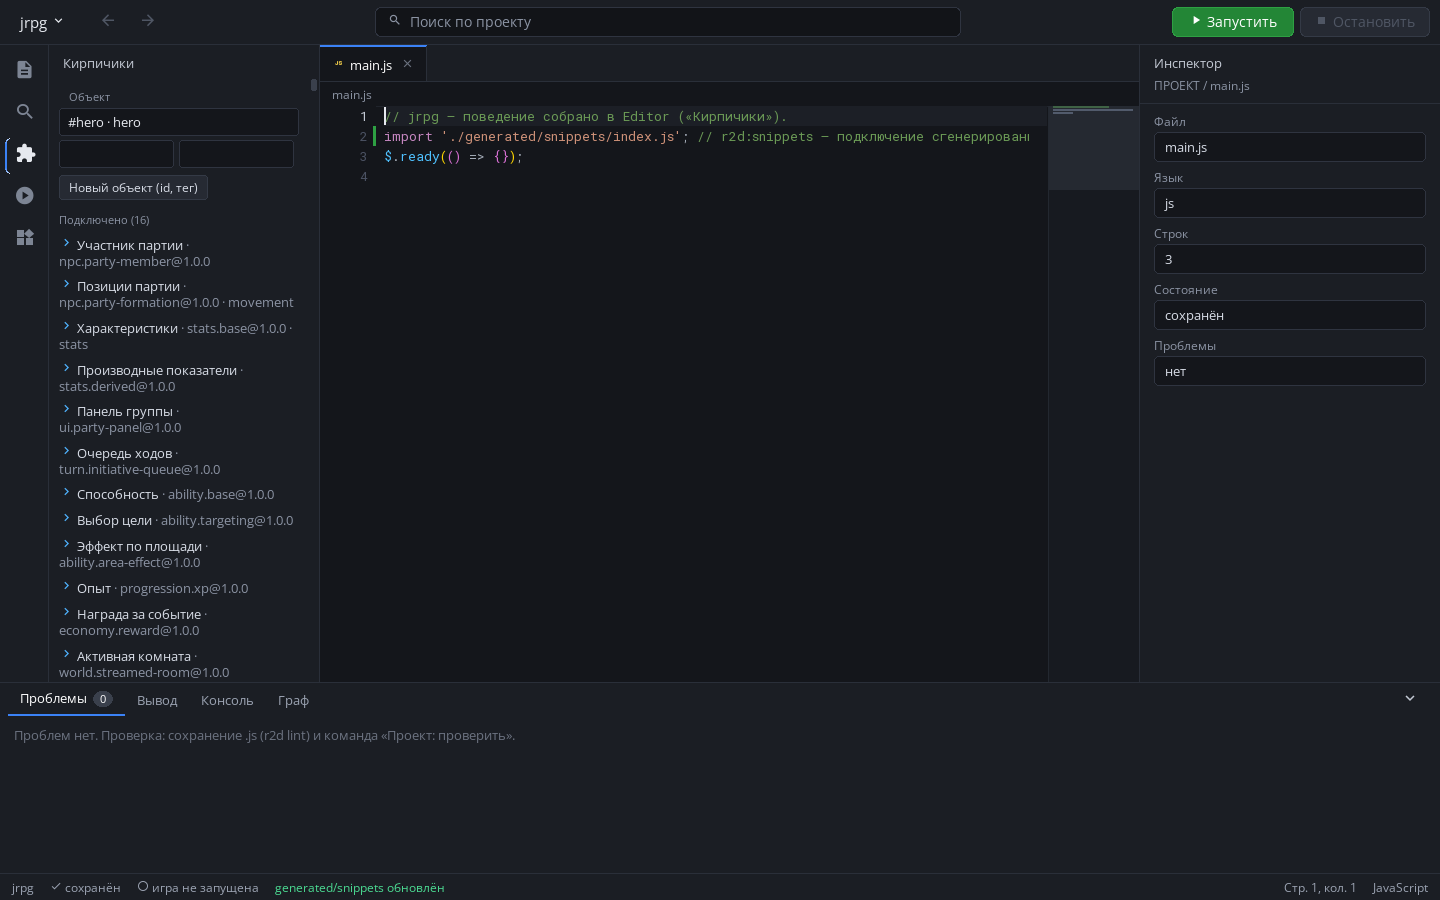
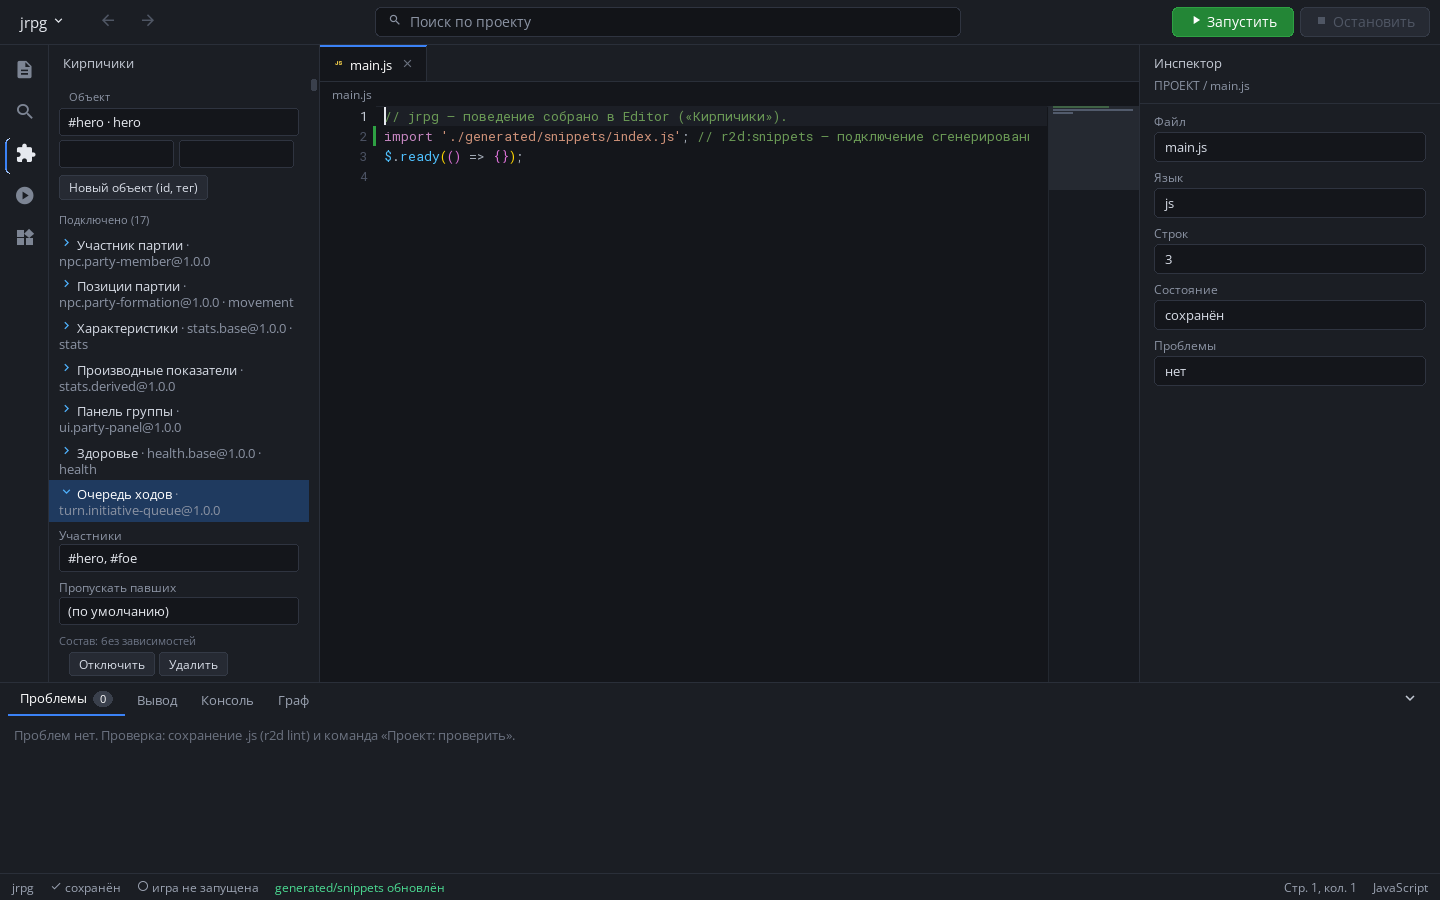
Сниппеты: рабочие VN callbacks и здоровье JRPG, приёмка семи жанров

Changed region(s): [[0.0312, 0.4978, 0.2188, 0.7467]]

diff --git a/snippets/dialogue.action/src/behavior.js b/snippets/dialogue.action/src/behavior.js
@@ -1,8 +1,8 @@
 // Действия: choice по тексту и line по id реплики → $.emit(событие).
 export default function dialogueAction(node, config, $) {
     const map = Object.fromEntries(config.actions.map((s) => s.split('=')).filter((p) => p.length === 2).map(([k, v]) => [k.trim(), v.trim()]));
-    const onChoice = (e) => { if ($.dialog.definition() !== config.dialog) return; if (config.setFlag) $.story.set(config.setFlag, e.data.text); if (map[e.data.text]) $.emit(map[e.data.text], { dialog: config.dialog }); };
-    const onLine = (e) => { if (e.data.definition === config.dialog && map[e.data.id]) $.emit(map[e.data.id], { dialog: config.dialog }); };
+    const onChoice = (e) => { if ($.dialog.definition() !== config.dialog) return; if (config.setFlag) $.story.set(config.setFlag, e.text); if (map[e.text]) $.emit(map[e.text], { dialog: config.dialog }); };
+    const onLine = (e) => { if (e.definition === config.dialog && map[e.id]) $.emit(map[e.id], { dialog: config.dialog }); };
     $.dialog.on('choice', onChoice);
     $.dialog.on('line', onLine);
     return () => { $.dialog.off('choice', onChoice); $.dialog.off('line', onLine); };

diff --git a/snippets/dialogue.portrait/src/behavior.js b/snippets/dialogue.portrait/src/behavior.js
@@ -3,8 +3,8 @@ export default function dialoguePortrait(node, config, $) {
     const map = Object.fromEntries(config.portraits.map((s) => s.split('=')).filter((p) => p.length === 2).map(([k, v]) => [k.trim(), v.trim()]));
     const pic = $('<portrait>', { ui: true }).at(config.position[0], config.position[1]).size(config.size[0], config.size[1]).hide().appendTo($.world);
     const onLine = (e) => {
-        const key = (e.data.speaker || '') + ':' + ((e.data.text || '').match(/^\[(\w+)\]/) || [])[1];
-        const src = map[key] || map[(e.data.speaker || '') + ':'] || map[e.data.speaker] || e.data.portrait;
+        const key = (e.speaker || '') + ':' + ((e.text || '').match(/^\[(\w+)\]/) || [])[1];
+        const src = map[key] || map[(e.speaker || '') + ':'] || map[e.speaker] || e.portrait;
         if (src) pic.sprite(src).show(); else pic.hide();
     };
     const onEnd = () => pic.hide();

diff --git a/snippets/dialogue.choice/src/behavior.js b/snippets/dialogue.choice/src/behavior.js
@@ -4,7 +4,7 @@ export default function dialogueChoice(node, config, $) {
         .map(([text, to, flag]) => Object.assign({ text, to: to || null, action: text }, flag ? { if: flag } : {}));
     const send = () => $.emit('dialogue:choices', { dialog: config.dialog, line: config.line, options });
     const onDefined = (e) => { if (e.data && e.data.id === config.dialog) send(); };
-    const onChoice = (e) => { if (config.record && $.dialog.definition() === config.dialog && options.some((o) => o.text === e.data.text)) $.story.set(config.record, e.data.text); };
+    const onChoice = (e) => { if (config.record && $.dialog.definition() === config.dialog && options.some((o) => o.text === e.text)) $.story.set(config.record, e.text); };
     $.on('dialogue:defined', onDefined);
     $.dialog.on('choice', onChoice);
     send();

diff --git a/snippets/ui.dialogue-box/src/behavior.js b/snippets/ui.dialogue-box/src/behavior.js
@@ -12,7 +12,7 @@ const esc = (t) => String(t).replace(/&/g, '&amp;').replace(/</g, '&lt;').replac
 export default function dialogueBox(node, config, $) {
     const doc = hud($, 'ui-dialogue', '<div class="panel" style="left: 5%; bottom: 20px; width: 90%; height: ' + config.height + 'px;"><div id="who" style="color: #ffd040;"></div><div id="text"></div></div>');
     doc.hide();
-    const onLine = (e) => { doc.text('who', esc(e.data.speaker || '')); doc.show(); };
+    const onLine = (e) => { doc.text('who', esc(e.speaker || '')); doc.show(); };
     const onEnd = () => doc.hide();
     $.dialog.on('line', onLine);
     $.dialog.on('end', onEnd);

diff --git a/snippets/accessibility.subtitle/src/behavior.js b/snippets/accessibility.subtitle/src/behavior.js
@@ -4,7 +4,7 @@ export default function subtitles(node, config, $) {
     doc.show();
     let left = 0;
     const show = (text, ms) => { doc.text('s', String(text).replace(/</g, '&lt;')); left = ms; };
-    const onLine = (e) => show((config.speaker && e.data.speaker ? e.data.speaker + ': ' : '') + (e.data.fullText || e.data.text || ''), 4000);
+    const onLine = (e) => show((config.speaker && e.speaker ? e.speaker + ': ' : '') + (e.fullText || e.text || ''), 4000);
     const onSub = (e) => show(e.data && e.data.text || '', (e.data && e.data.ms) || 2500);
     $.dialog.on('line', onLine);
     $.on('subtitle', onSub);

diff --git a/snippets/story.choice-history/src/behavior.js b/snippets/story.choice-history/src/behavior.js
@@ -2,7 +2,7 @@
 export default function choiceHistory(node, config, $) {
     const log = ($.save.get(config.key) || []).slice();
     const on = (e) => {
-        log.push({ dialog: $.dialog.definition(), node: $.dialog.node(), text: e.data.text });
+        log.push({ dialog: $.dialog.definition(), node: $.dialog.node(), text: e.text });
         while (log.length > config.keep) log.shift();
         $.save.set(config.key, log);
     };

diff --git a/tests/agent/snippets_genre_projects_test.py b/tests/agent/snippets_genre_projects_test.py
@@ -54,6 +54,21 @@ def project_json(root):
     return json.loads((root / 'project.json').read_text())
 
 
+def configure(a, root, package, values):
+    inst = next(i for i in project_json(root)['editor']['snippets']['instances'] if i['package'] == package)
+    a.eval("$.ui.doc('ui/editor.rml').setValue('sn-owner', %s);1" % json.dumps(inst['owner']))
+    run(a, E + ".snippets.changed('sn-owner')")
+    if a.eval(E + '.snippets.state.open') != inst['id']:
+        run(a, E + '.snippets.click(%s)' % json.dumps('open:' + inst['id']))
+    for key, value in values.items():
+        text = json.dumps(value, ensure_ascii=False) if isinstance(value, list) else str(value)
+        settle(a, E + '.snippets.state.busy===false')
+        a.eval("$.ui.doc('ui/editor.rml').setValue(%s,%s);1" % (json.dumps('sn-f-' + key), json.dumps(text, ensure_ascii=False)))
+        run(a, E + '.snippets.changed(%s)' % json.dumps('sn-f-' + key))
+        settle(a, E + '.snippets.state.busy===false')
+    check(next(i for i in project_json(root)['editor']['snippets']['instances'] if i['id'] == inst['id'])['values'].items() >= values.items(), package + ': значения Inspector сохранены')
+
+
 def genre(tmp, name, kit, entities):
     root = Path(tmp) / name
     res = r2d('new', 'blank', str(root), '--name', name)
@@ -72,20 +87,51 @@ def genre(tmp, name, kit, entities):
         run(a, E + ".snippets.click('add:%s')" % kit)
         sec = project_json(root)['editor']['snippets']
         check(any(s['package'] == kit for s in sec.get('sets', [])), '%s: набор %s подключён (%d экземпляров)' % (name, kit, len(sec['instances'])))
+        if name == 'vn':
+            run(a, E + ".snippets.click('add:dialogue.action')")
+            configure(a, root, 'dialogue.action', {'setFlag': 'route', 'actions': ['Свои=game:finale']})
+            configure(a, root, 'story.ending', {'endings': ['good: route', 'bad:']})
+        if name == 'jrpg':
+            run(a, E + ".snippets.createEntity('foe','foe',{x:350,y:300,body:'none'})")
+            run(a, E + ".snippets.click('add:enemy.base')")
+            configure(a, root, 'ability.targeting', {'mode': 'nearest'})
+            configure(a, root, 'turn.initiative-queue', {'units': '#hero, #foe'})
+        if name == 'roguelike':
+            configure(a, root, 'run.route-generator', {'seed': 1337, 'length': 3})
+        run(a, E + ".snippets.click('preview')")
         run(a, E + ".snippets.click('generate')")
         gen = a.eval(E + '.snippets.state.gen') or {}
         check(gen.get('ok') is True, '%s: генерация — %s' % (name, [d.get('message') for d in gen.get('diagnostics', [])][:3]))
         if SHOTS:
             a.screenshot(str(ROOT / 'docs/snippets/images' / ('%s-editor.png' % name)))
+    check(r2d('lint', str(root))['ok'], name + ': lint generated JS')
+    check(r2d('build', str(root), '--out', str(Path(tmp) / (name + '-build')))['ok'], name + ': Build')
     v = r2d('validate', str(root))
     check(v['ok'], '%s: validate — %s' % (name, [(d['code'], d['message']) for d in v['diagnostics'] if d['severity'] == 'error'][:3]))
     with Agent(game=str(root), seed=7) as a:
         a.step(10)
+        before_x = a.eval("$('#hero').pos().x")
         a.hold(['D', 'Space'])
         a.step(30)
         a.release_all()
         a.step(10)
         check(a.eval("$('#hero').length") == 1, '%s: герой создан сгенерированным JS' % name)
+        if name in ('platformer', 'witch', 'top-down'):
+            check(a.eval("$('#hero').pos().x") > before_x, name + ': управление двигает героя')
+        if name == 'vn':
+            a.eval("$.emit('dialogue:play',{id:'guard'});1"); a.step(2)
+            a.eval("$.dialog.skip();$.dialog.chooseByText('Свои');1"); a.step(2)
+            check(a.eval("$.story.flags.ending") == 'good', 'vn: выбор приводит к хорошей концовке')
+            check(bool(a.eval("$.save.get('choiceHistory') || $.save.get('choices')")), 'vn: выбор записан в save')
+        if name == 'jrpg':
+            a.eval("$('#hero').data('initiative',5);$.emit('turn:next');1")
+            check(a.eval("$.store.get('turn').unit") == 'hero', 'jrpg: очередь выдаёт ход герою')
+            hp = a.eval("$('#foe').hp()")
+            a.tap('Q'); a.step(3)
+            check(a.eval("$('#foe').hp()") < hp, 'jrpg: способность наносит урон противнику')
+        if name == 'roguelike':
+            check(a.eval("$('#hero').data('route').length") == 4, 'roguelike: три комнаты и босс')
+            check(a.eval("$.save.get('run').seed") == 1337, 'roguelike: seed и маршрут сохраняются')
         errs = a.eval('$.debug.errors()') or []
         check(not errs, '%s: игра без ошибок %s' % (name, [(e.get('message'), (e.get('source') or {}).get('file')) for e in errs[:3]]))
         if SHOTS:

diff --git a/docs/SNIPPET_PROGRESS.md b/docs/SNIPPET_PROGRESS.md
@@ -160,3 +160,19 @@
 - Required docs: doc_claims/doc_coverage/api_docs_sync — **PASS**.
   Общий JS run: 129/130 PASS; единственное падение — известный
   `api_docs_test.mjs` из постороннего generated API каталога, файлы не менялись.
+
+### Шаг 4: усиление приёмки жанров
+
+- Genre fixtures дополнены настройкой полей **через Inspector Editor**, lint и
+  Build для каждого из семи проектов, проверкой движения Platformer/Witch/top-down,
+  выбора VN → хорошая концовка + save history, очереди JRPG и урона по противнику,
+  seeded маршрута roguelike и сохранения run.
+- Новые assertions обнаружили ошибки, которых не показывал smoke:
+  шесть пакетов ожидали `e.data` от `$.dialog.on`, хотя API передаёт payload
+  напрямую. Исправлены dialogue.action/choice/portrait, story.choice-history,
+  ui.dialogue-box и accessibility.subtitle; глобальные $.on остаются с e.data.
+- JRPG kit не инициализировал hp (stats.derived выставлял только maxHp), очередь
+  пропускала героя как погибшего. В `kit.jrpg-turn-battle` добавлен health.base.
+- Повторный VN/JRPG с этими assertions, lint, validate, Build и снимками:
+  **PASS**. `snippet_matrix.py` обновил состав JRPG, 500/500 сохранено.
+- Genre acceptance включён в `snippets_regression_tests/contracts`.
